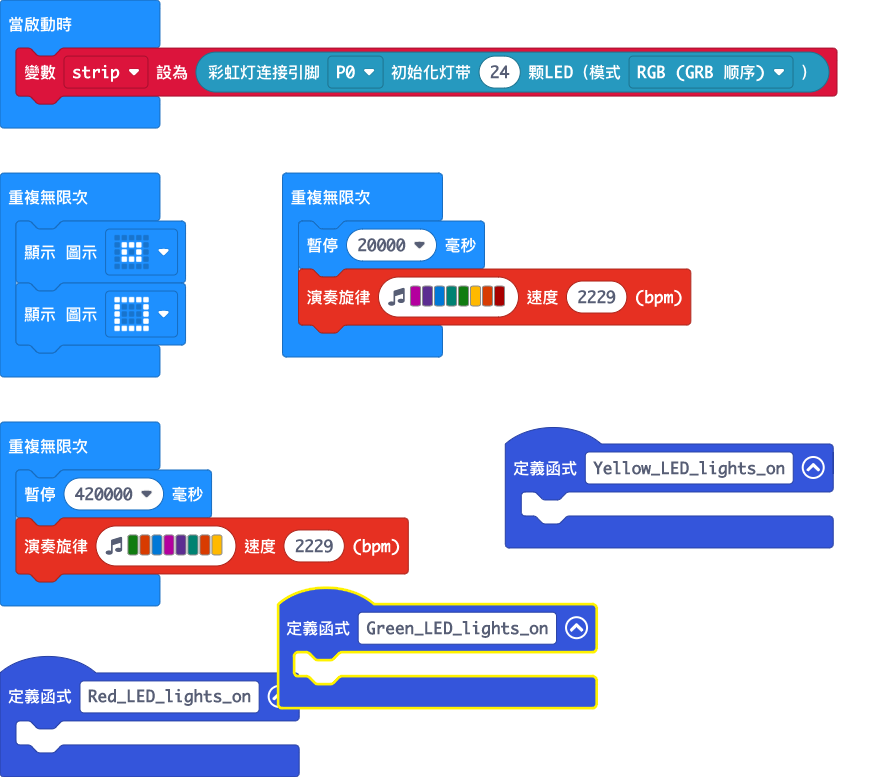
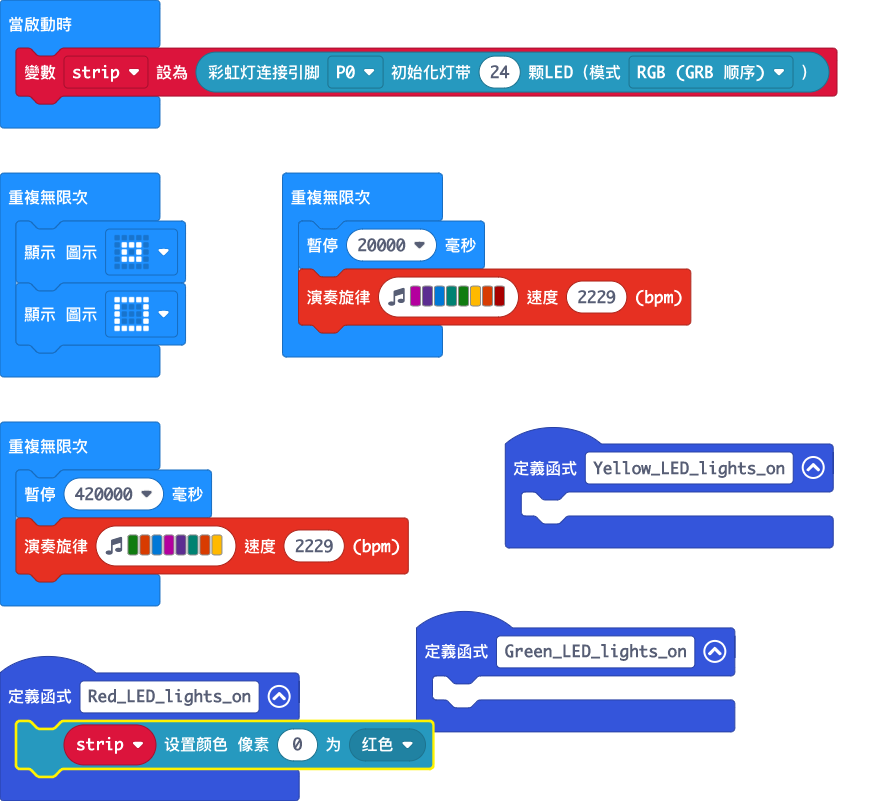
更新 main.blocks, main.ts

diff --git a/main.ts b/main.ts
@@ -5,9 +5,10 @@ function Yellow_LED_lights_on () {
 	
 }
 function Red_LED_lights_on () {
-	
+    strip.setPixelColor(0, neopixel.colors(NeoPixelColors.Red))
 }
-let strip = neopixel.create(DigitalPin.P0, 24, NeoPixelMode.RGB)
+let strip: neopixel.Strip = null
+strip = neopixel.create(DigitalPin.P0, 24, NeoPixelMode.RGB)
 basic.forever(function () {
     basic.showIcon(IconNames.SmallSquare)
     basic.showIcon(IconNames.Square)
